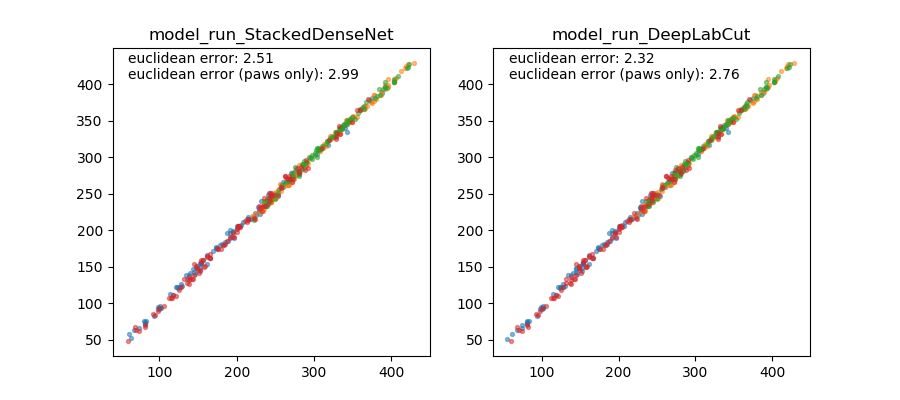
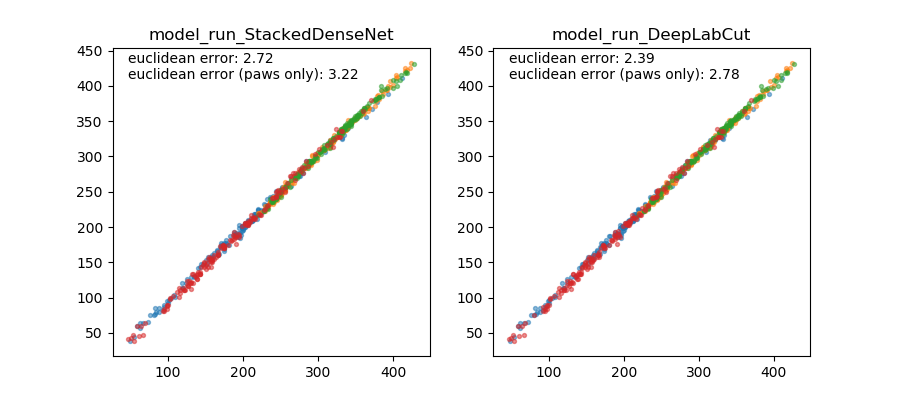
wip

diff --git a/tracking/label/createTrainingData.m b/tracking/label/createTrainingData.m
@@ -25,14 +25,14 @@ end
 %% label dataset
 
 % run
-trainingSet = 'D:\github\locomotionAnalysis\tracking\label\training_sets\trainingset_run.mat';
-skeleton = 'D:\github\locomotionAnalysis\tracking\label\training_sets\skeleton_run.csv';  % skeletons follow the 'deepposekit' format
-invert = false;
+% trainingSet = 'D:\github\locomotionAnalysis\tracking\label\training_sets\trainingset_run.mat';
+% skeleton = 'D:\github\locomotionAnalysis\tracking\label\training_sets\skeleton_run.csv';  % skeletons follow the 'deepposekit' format
+% invert = false;
 
 % wisk
-% trainingSet = 'D:\github\locomotionAnalysis\tracking\label\training_sets\trainingset_wisk.mat';
-% skeleton = 'D:\github\locomotionAnalysis\tracking\label\training_sets\skeleton_wisk.csv';  % skeletons follow the 'deepposekit' format
-% invert = true;
+trainingSet = 'D:\github\locomotionAnalysis\tracking\label\training_sets\trainingset_wisk.mat';
+skeleton = 'D:\github\locomotionAnalysis\tracking\label\training_sets\skeleton_wisk.csv';  % skeletons follow the 'deepposekit' format
+invert = true;
 
 
 labelFrames(trainingSet, skeleton, 'vidScaling', 2, 'invertFrame', invert);
@@ -115,20 +115,20 @@ fprintf('created file: %s\n', fileName)
 session = '999999_999';
 
 % run
-vid = 'run.mp4';  % run_originalDimensions;
-trackedFeatures = 'trackedFeaturesRaw.csv';
-trainingSet = 'D:\github\locomotionAnalysis\tracking\label\training_sets\trainingset_run.mat';
-skeleton = 'D:\github\locomotionAnalysis\tracking\label\training_sets\skeleton_run.csv';  % skeletons follow the 'deepposekit' format
-invert = false;
+% vid = 'run.mp4';  % run_originalDimensions;
+% trackedFeatures = 'trackedFeaturesRaw.csv';
+% trainingSet = 'D:\github\locomotionAnalysis\tracking\label\training_sets\trainingset_run.mat';
+% skeleton = 'D:\github\locomotionAnalysis\tracking\label\training_sets\skeleton_run.csv';  % skeletons follow the 'deepposekit' format
+% invert = false;
 
 % wisk
-% vid = 'runWisk.mp4';  % run_originalDimensions;
-% trackedFeatures = 'trackedFeatures_wisk.csv';
-% trainingSet = 'D:\github\locomotionAnalysis\tracking\label\training_sets\trainingset_wisk.mat';
-% skeleton = 'D:\github\locomotionAnalysis\tracking\label\training_sets\skeleton_wisk.csv';  % skeletons follow the 'deepposekit' format
-% invert = true;
+vid = 'runWisk.mp4';  % run_originalDimensions;
+trackedFeatures = 'trackedFeaturesRaw_wisk.csv';
+trainingSet = 'D:\github\locomotionAnalysis\tracking\label\training_sets\trainingset_wisk.mat';
+skeleton = 'D:\github\locomotionAnalysis\tracking\label\training_sets\skeleton_wisk.csv';  % skeletons follow the 'deepposekit' format
+invert = true;
 
-addToTrainingSet(session, vid, trackedFeatures, trainingSet, 'skeleton', skeleton, 'invertFrame', invert, 'scoreThresh', 0);
+addToTrainingSet(session, vid, trackedFeatures, trainingSet, 'skeleton', skeleton, 'invertFrame', invert, 'scoreThresh', .5);
 
 %% analyze batch of videos
 
@@ -143,19 +143,27 @@ otherSessions = otherSessions(~ismember(otherSessions, groomingSessions));
 % sessions = groomingSessions;
 sessions = {groomingSessions{:}, otherSessions{:}};
 
-for i = 20:length(sessions)
+for i = 1:length(sessions)
     fprintf('%i/%i ', i, length(sessions))
     try
+        % run (dpk vs dlc)
+%         dpkAnalysis(sessions{i}, 'verbose', false, ...
+%             'vid', 'run_originalDimensions.mp4', ...
+%             'model', 'D:\github\locomotionAnalysis\tracking\deepposekit\models\model_run_StackedDenseNet.h5', ...
+%             'skeleton', 'D:\github\locomotionAnalysis\tracking\label\training_sets\skeleton_run.csv', ...
+%             'output', 'trackedFeatures_run.csv')
+%         dpkAnalysis(sessions{i}, 'verbose', false, ...
+%             'vid', 'run_originalDimensions.mp4', ...
+%             'model', 'D:\github\locomotionAnalysis\tracking\deepposekit\models\model_run_DeepLabCut.h5', ...
+%             'skeleton', 'D:\github\locomotionAnalysis\tracking\label\training_sets\skeleton_run.csv', ...
+%             'output', 'trackedFeatures_runDLC.csv')
+        
+        % wisk (dpk)
         dpkAnalysis(sessions{i}, 'verbose', false, ...
-            'vid', 'run_originalDimensions.mp4', ...
-            'model', 'D:\github\locomotionAnalysis\tracking\deepposekit\models\model_run_StackedDenseNet.h5', ...
-            'skeleton', 'D:\github\locomotionAnalysis\tracking\label\training_sets\skeleton_run.csv', ...
-            'output', 'trackedFeatures_run.csv')
-        dpkAnalysis(sessions{i}, 'verbose', false, ...
-            'vid', 'run_originalDimensions.mp4', ...
-            'model', 'D:\github\locomotionAnalysis\tracking\deepposekit\models\model_run_DeepLabCut.h5', ...
-            'skeleton', 'D:\github\locomotionAnalysis\tracking\label\training_sets\skeleton_run.csv', ...
-            'output', 'trackedFeatures_runDLC.csv')
+            'vid', 'runWisk.mp4', ...
+            'model', 'D:\github\locomotionAnalysis\tracking\deepposekit\models\model_wisk_StackedDenseNet.h5', ...
+            'skeleton', 'D:\github\locomotionAnalysis\tracking\label\training_sets\skeleton_wisk.csv', ...
+            'output', 'trackedFeaturesRaw_wisk.csv')
     catch
         fprintf('%s: problem with analysis!\n', sessions{i})
     end
@@ -191,32 +199,5 @@ disp('all done!')
 % 
 % save(trainingSet, 'trainingData')
 % disp('all done!')
-
-%% (temp) find out which sessions have 'originalDimensions' versions
-
-files = dir(fullfile(getenv('OBSDATADIR'), 'sessions'));
-sessions = {files([files.isdir]).name};
-origSessions = {};
-
-fileExists = false(1,length(sessions));
-fprintf('\n\n--------------------looking for originalDimensions--------------------\n')
-for i = 1:length(sessions)
-    dirSub = dir(fullfile(getenv('OBSDATADIR'), 'sessions', sessions{i}, '*.mp4'));
-    bins = contains({dirSub.name}, 'originalDimensions');
-    if any(bins)
-        fprintf('%s: ', sessions{i})
-        fprintf('%s ', dirSub(bins).name)
-        fprintf('\n')
-        origSessions{end+1} = sessions{i};
-    end
-end
-disp('all done!')
-
-%% (temp) test models on old frames with different dimensions
-
-dpkAnalysis('190929_003', 'run', 'verbose', true, 'runModel', 'D:\github\locomotionAnalysis\tracking\deepposekit\models\model_run_StackedDenseNet.h5', 'runOutput', 'trackedFeatures_run.csv', 'runVid', 'run.mp4')
-% dpkAnalysis('190929_003', 'wisk', 'verbose', true, 'wiskModel', 'D:\github\locomotionAnalysis\tracking\deepposekit\models\model_wisk.h5', 'wiskOutput', 'trackedFeatures_wisk.csv')
-
-
 
 

diff --git a/tracking/deepposekit/model_comparison.py b/tracking/deepposekit/model_comparison.py
@@ -53,14 +53,16 @@ plt.savefig(os.path.join('tracking', 'deepposekit', 'figures', 'errors'))
 
 # settings
 paw_names = ['paw1LH', 'paw2LF', 'paw3RF', 'paw4RH']  # names of fields in tracking spreadsheets
-sessions = ['200113_000', '200116_000', '200117_000', '200114_000', '200131_000', '200202_000', '191221_000']
+sessions = ['200113_000', '200116_000', '200117_000', '200114_000', '200131_000', '200202_000', '200130_000', '191119_001', '191113_002', '191113_000', '191124_000', '200310_000', '191126_001', '191209_001', '191128_002', '200120_000', '200120_001', '200120_002', '200120_003', '200120_004']
+# sessions = ['200113_000', '200116_000', '200117_000']
 files = ['trackedFeatures_run.csv', 'trackedFeatures_runDLC.csv']
 scatters = 1000
 thresh = 25
+session_smps = 10000  # random samples per session
 
 
 # make df with one row per tracked feature, for all features in all frames in all sessions
-# todo: this is super memory inefficient // perhaps subsample for entire videos... // also, should have different columns for dft sessions, because having to do logical indexing below over this enormous length df takes tons of time
+# todo: this is super memory inefficient // should have different columns for dft sessions, because having to do logical indexing below over this enormous length df takes tons of time
 data = pd.DataFrame(columns=['tracking_file', 'session', 'paw', 'x_bot', 'x_top'])
 
 for s in sessions:
@@ -69,16 +71,16 @@ for s in sessions:
         if os.path.exists(csv_name):
             print('%s: loading %s...' % (s, f))
             tracking = pd.read_csv(csv_name)
+            inds = np.random.choice(range(len(tracking)), session_smps, replace=False)
 
             for paw in paw_names:
                 idx = len(data)
-                data = data.reindex(list(range(len(data) + len(tracking))))  # extend dataframe
-
+                data = data.reindex(list(range(len(data) + session_smps)))  # extend dataframe
                 data.loc[idx:, 'tracking_file'] = f
                 data.loc[idx:, 'session'] = s
                 data.loc[idx:, 'paw'] = paw
-                data.loc[idx:, 'x_bot'] = list(tracking[paw+'_bot'])
-                data.loc[idx:, 'x_top'] = list(tracking[paw+'_top'])
+                data.loc[idx:, 'x_bot'] = list(tracking.loc[inds,paw+'_bot'])
+                data.loc[idx:, 'x_top'] = list(tracking.loc[inds,paw+'_top'])
         else:
             print('%s: WARNING! %s does not exist for this session...' % (s, f))
 
@@ -120,7 +122,7 @@ for s_i, s in enumerate(sessions):
 
 fig.savefig(os.path.join('tracking', 'deepposekit', 'figures', 'x_alignment_thresh%i'%thresh))
 
-## print average error rates across models
+# print average error rates across models
 print('------ERROR RATES------')
 for f_i, f in enumerate(files):
     print('%s: %.5f' % (f, np.mean(error_rates[f_i])))

diff --git a/tracking/reanalyzeOldVids.m b/tracking/reanalyzeOldVids.m
@@ -1,0 +1,66 @@
+%% find out which sessions have 'originalDimensions' files
+
+files = dir(fullfile(getenv('OBSDATADIR'), 'sessions'));
+sessions = {files([files.isdir]).name};
+origSessions = {};
+
+fileExists = false(1,length(sessions));
+fprintf('\n\n--------------------looking for originalDimensions--------------------\n')
+for i = 1:length(sessions)
+    dirSub = dir(fullfile(getenv('OBSDATADIR'), 'sessions', sessions{i}, '*.mp4'));
+    bins = contains({dirSub.name}, 'originalDimensions');
+    if any(bins)
+        fprintf('%s: ', sessions{i})
+        fprintf('%s ', dirSub(bins).name)
+        fprintf('\n')
+        origSessions{end+1} = sessions{i};
+    end
+end
+disp('all done!')
+
+%% find sessions with ephys folders
+
+files = dir(fullfile(getenv('OBSDATADIR'), 'sessions'));
+sessions = {files([files.isdir]).name};
+ephysSessions = {};
+
+hasEphysFolder = false(1,length(sessions));
+fprintf('\n\n--------------------looking for ephys folders--------------------\n')
+for i = 1:length(sessions)
+    dirSub = dir(fullfile(getenv('OBSDATADIR'), 'sessions', sessions{i}));
+    dirSub = dirSub([dirSub.isdir]);
+    bins = contains({dirSub.name}, 'ephys_');
+    if any(bins)
+        fprintf('%s: ', sessions{i})
+        fprintf('%s ', dirSub(bins).name)
+        fprintf('\n')
+        ephysSessions{end+1} = sessions{i};
+    end
+end
+disp('all done!')
+
+
+%% get rid of cropped versions for ephys experiments
+
+% rename _orig files to overwrite cropped // if runTop and runBot, concat to run // get rid of runTop and runBot?
+
+
+%% to clear up disk space we could:
+
+
+% get rid of runTop, runBot when run exists
+
+% get rid of originalDimensions for old sessions OR ...
+
+% get rid of cropped for old sessions and reanalyze: could potentially
+% analyze on cropped vids with old network, then shift the coordinates to
+% accomodate the cropping, and throw away cropped vid, performing the rest
+% of the analysis on the uncropped video // alternatively, see if old DLC
+% can handle uncropped vids, and reanalyze like that...
+
+
+
+
+
+
+

diff --git a/tracking/label/addToTrainingSet.m b/tracking/label/addToTrainingSet.m
@@ -42,15 +42,19 @@ colors = hsv(length(features));
 
 % find frames where x positions are misaligned
 pawPairs = {{'paw1LH_top', 'paw1LH_bot'}, {'paw2LF_top', 'paw2LF_bot'}, {'paw3RF_top', 'paw3RF_bot'}, {'paw4RH_top', 'paw4RH_bot'}};
-deltaX = nan(size(locations,1), 4);
-for i = 1:length(pawPairs)
-    bins = ismember(features, pawPairs{i});
-    deltaX(:,i) = diff(squeeze(locations(:,1,bins)),[],2);
+if any(ismember(features, cat(2,pawPairs{:})))  % if paws are actually in this video
+    deltaX = nan(size(locations,1), 4);
+    for i = 1:length(pawPairs)
+        bins = ismember(features, pawPairs{i});
+        deltaX(:,i) = diff(squeeze(locations(:,1,bins)),[],2);
+    end
+    isMisaligned = all(scores(:,contains(features, 'paw'))>s.scoreThresh,2) & ...  % all paws have high confidence
+        any(deltaX>s.deltaThresh,2);  % at least one paw is misaligned
+    isMisaligned = [false; diff(isMisaligned)==1];  % only keep first true is sequences of consecutive trues
+    misalignedInds = find(isMisaligned);
+else
+    deltaX = zeros(size(locations,1), 4);
 end
-isMisaligned = all(scores(:,contains(features, 'paw'))>s.scoreThresh,2) & ...  % all paws have high confidence
-    any(deltaX>s.deltaThresh,2);  % at least one paw is misaligned
-isMisaligned = [false; diff(isMisaligned)==1];  % only keep first true is sequences of consecutive trues
-misalignedInds = find(isMisaligned);
 
 
 % set up figure

diff --git a/tracking/dlcAnalysis.m b/tracking/dlcAnalysis.m
@@ -22,12 +22,12 @@ vid = VideoReader(fullfile(sesDir, 'run.mp4'));
 dims = [vid.Height, vid.Width];
 clear vid
 
-if ~isequal(dims, [406 396])
-    fprintf('%s: cropping run.mp4 to match old video dimensions...\n', newSessions{1});
-    copyfile(fullfile(sesDir, 'run.mp4'), fullfile(sesDir, 'run_originalDimensions.mp4'))  % copy and rename original dimension files
-    system(['ffmpeg -y -loglevel panic -r 250 -i ' fullfile(sesDir, 'run_originalDimensions.mp4') ...
-        ' -filter:v "crop=396:406:44:52" -vb 10M -vcodec mpeg4 ' fullfile(sesDir, 'run.mp4')]);
-end
+% if ~isequal(dims, [406 396])
+%     fprintf('%s: cropping run.mp4 to match old video dimensions...\n', newSessions{1});
+%     copyfile(fullfile(sesDir, 'run.mp4'), fullfile(sesDir, 'run_originalDimensions.mp4'))  % copy and rename original dimension files
+%     system(['ffmpeg -y -loglevel panic -r 250 -i ' fullfile(sesDir, 'run_originalDimensions.mp4') ...
+%         ' -filter:v "crop=396:406:44:52" -vb 10M -vcodec mpeg4 ' fullfile(sesDir, 'run.mp4')]);
+% end
 
 
 % move video into DLC directory

diff --git a/sandbox.m b/sandbox.m
@@ -1,4 +1,23 @@
-%% play around with jaw tracking
+%% demonsrate face tracking stuff
+
+load(fullfile(getenv('OBSDATADIR'), 'sessions', '999999_999', 'runAnalyzed.mat'), ...
+    'wheelTimes', 'wheelPositions', 'lickTimes', 'whiskerAngles', 'frameTimeStampsWisk', 'targetFs', 'rewardTimes')
+wheelVel = getVelocity(wheelPositions, .05, targetFs);
+whiskerAngle = fillmissing(whiskerAngle, 'pchip');
+% whiskerAngle(whiskerAngle<-120) = nan;
+%%
+close all; figure('color', 'white', 'position', [286.00 456.00 1437.00 360.00]); hold on
+yLims = [-2 2];
+
+plot(wheelTimes, zscore(wheelVel))
+plot(frameTimeStampsWisk, zscore(whiskerAngle));
+plot([lickTimes, lickTimes], yLims, 'color', [.6 .6 .6])
+plot([rewardTimes, rewardTimes], yLims, 'color', 'blue', 'LineWidth', 2)
+
+
+% legend('velocity', 'whisker angle')
+set(gca, 'xlim', [288.7246  304.5106], 'ylim', yLims, 'visible', 'off')
+
 
 %% play around with whisker angle computation
 

diff --git a/tracking/deepLabCut/dlcScheduler/dlcScheduler.m b/tracking/deepLabCut/dlcScheduler/dlcScheduler.m
@@ -11,7 +11,7 @@
 checkFrequency = 60; % seconds
 sessionsDir = [getenv('OBSDATADIR') 'sessions\'];
 schedulerDir = [getenv('GITDIR') 'locomotionAnalysis\tracking\deepLabCut\dlcScheduler\'];
-dlcPath = [getenv('GITDIR') 'DeepLabCutBatch'];
+dlcPath = [getenv('GITDIR') 'DeepLabCut'];
 
 % initializations
 load([schedulerDir 'analyzedSessions.mat'], 'analyzedSessions');
